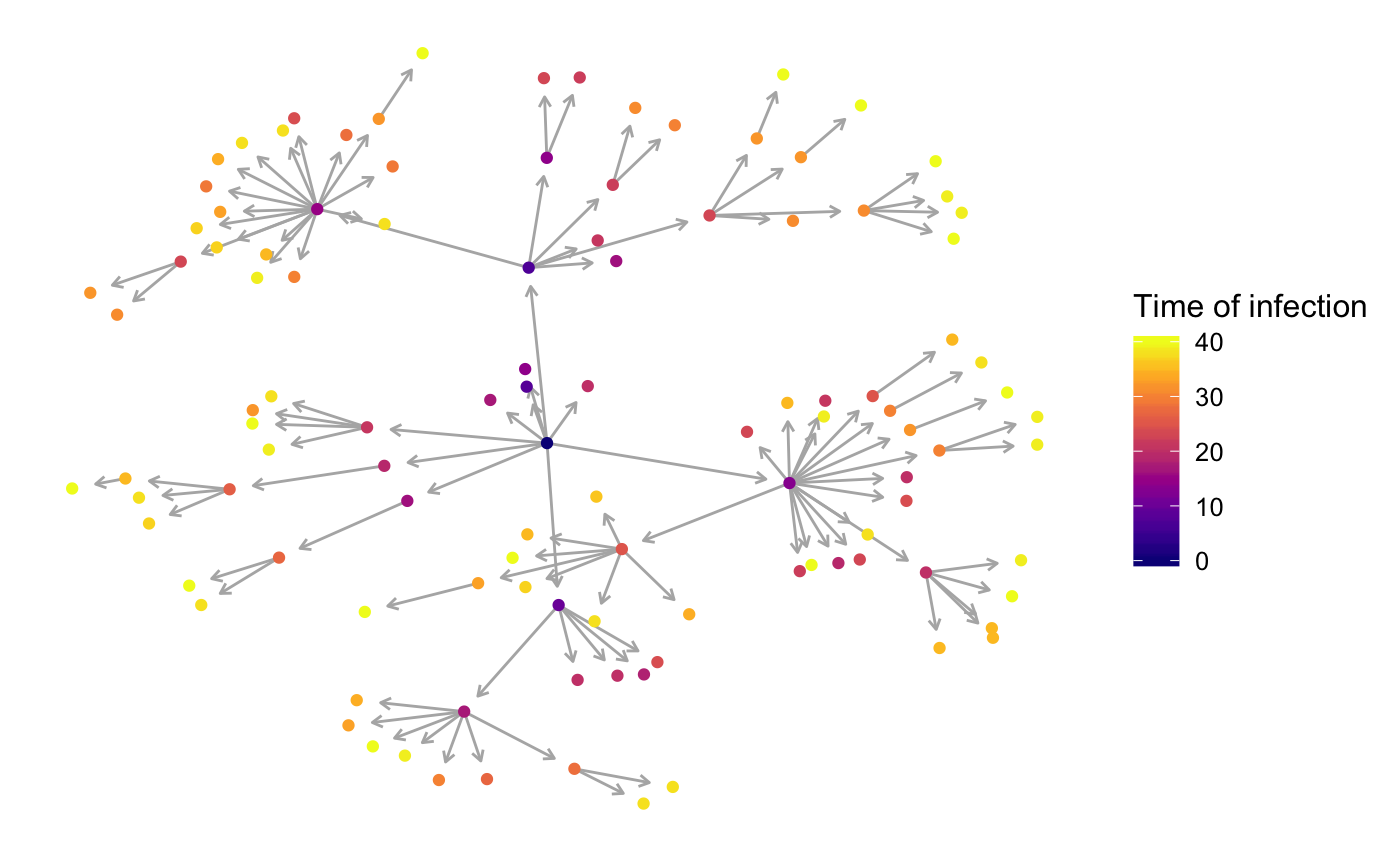
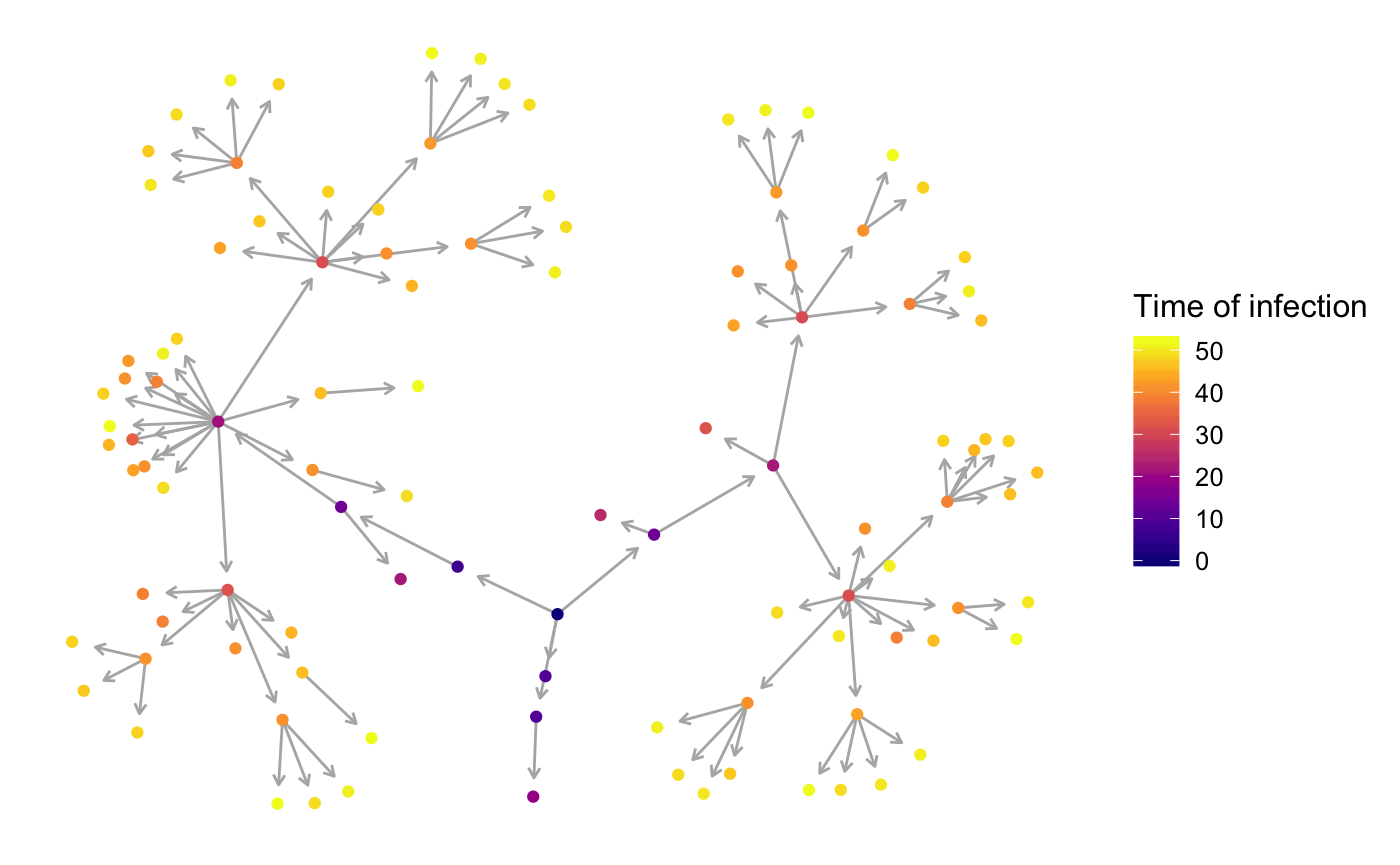
update vignette

diff --git a/docs/articles/single-host-none.html b/docs/articles/single-host-none.html
@@ -183,10 +183,6 @@ param.pExit=<span class="kw"><a href="https://www.rdocumentation.org/packages/ba
 <p>Once nosoiSim is set up, you can run the simulation (here the “seed” ensure that you will get the same results as this tutorial).</p>
 <div class="sourceCode"><pre class="sourceCode r"><code class="sourceCode r"><span class="kw"><a href="https://www.rdocumentation.org/packages/base/topics/library">library</a></span>(nosoi)
 <span class="co">#&gt; Loading required package: data.table</span>
-<span class="co">#&gt; Warning: replacing previous import 'igraph::decompose' by</span>
-<span class="co">#&gt; 'stats::decompose' when loading 'nosoi'</span>
-<span class="co">#&gt; Warning: replacing previous import 'igraph::spectrum' by 'stats::spectrum'</span>
-<span class="co">#&gt; when loading 'nosoi'</span>
 <span class="co">#timeContact</span>
 time_contact_fct =<span class="st"> </span><span class="cf">function</span>(x){<span class="kw"><a href="https://www.rdocumentation.org/packages/base/topics/MathFun">abs</a></span>(<span class="kw"><a href="https://www.rdocumentation.org/packages/base/topics/Round">round</a></span>(<span class="kw"><a href="https://www.rdocumentation.org/packages/stats/topics/Normal">rnorm</a></span>(x, <span class="fl">0.5</span>, <span class="dv">1</span>), <span class="dv">0</span>))}
 
@@ -205,7 +201,7 @@ p_Exit_fct  &lt;-<span class="st"> </span><span class="cf">function</span>(x){<s
 
 <span class="kw"><a href="https://www.rdocumentation.org/packages/base/topics/Random">set.seed</a></span>(<span class="dv">805</span>)
 SimulationA &lt;-<span class="st"> </span><span class="kw"><a href="../reference/nosoiSim.html">nosoiSim</a></span>(<span class="dt">type=</span><span class="st">"single"</span>, <span class="dt">structure=</span><span class="ot">FALSE</span>,
-                        <span class="dt">length.sim=</span><span class="dv">50</span>, <span class="dt">max.infected=</span><span class="dv">100</span>, <span class="dt">init.individuals=</span><span class="dv">1</span>, 
+                        <span class="dt">length.sim=</span><span class="dv">100</span>, <span class="dt">max.infected=</span><span class="dv">100</span>, <span class="dt">init.individuals=</span><span class="dv">1</span>, 
                         <span class="dt">timeContact=</span>time_contact_fct, 
                         <span class="dt">pTrans =</span> pTrans_fct,
                         <span class="dt">param.pTrans =</span> <span class="kw"><a href="https://www.rdocumentation.org/packages/base/topics/list">list</a></span>(<span class="dt">p_max=</span>p_max_fct,<span class="dt">t_incub=</span>t_incub_fct),
@@ -216,8 +212,118 @@ SimulationA &lt;-<span class="st"> </span><span class="kw"><a href="../reference
 <span class="co">#&gt; Starting the simulation</span>
 <span class="co">#&gt; Initializing ... running ...</span>
 <span class="co">#&gt;  done.</span>
-<span class="co">#&gt; The simulation has run for 40 units of time and a total of 111 hosts have been infected.</span></code></pre></div>
-<p>The simulation can stop before 100% of the progress bar is reached if the maximum number of infected hosts is met. Once the simulation is finished, it reports the number of time units for which the simulation has run (40), and the maximum number of infected hosts (111). Note that the simulation has stopped here before reaching <code>length.sim</code> as it has crossed the <code>max.infected</code> threshold set at 100.</p>
+<span class="co">#&gt; The simulation has run for 52 units of time and a total of 107 hosts have been infected.</span>
+
+<span class="kw"><a href="https://www.rdocumentation.org/packages/base/topics/as.data.frame">as.data.frame</a></span>(SimulationA)
+<span class="co">#&gt;     hosts.ID inf.by inf.time out.time active     p_max  t_incub</span>
+<span class="co">#&gt; 1        H-1   NA-1        0       15      0 0.6820110 5.867392</span>
+<span class="co">#&gt; 2       H-10    H-6       22       28      0 0.8280310 7.404940</span>
+<span class="co">#&gt; 3      H-100   H-31       52       NA      1 0.7137238 4.704842</span>
+<span class="co">#&gt; 4      H-101   H-35       52       NA      1 0.6802556 6.983838</span>
+<span class="co">#&gt; 5      H-102   H-39       52       NA      1 0.8902839 7.147764</span>
+<span class="co">#&gt; 6      H-103   H-40       52       NA      1 0.7908749 6.953566</span>
+<span class="co">#&gt; 7      H-104   H-44       52       NA      1 0.3586648 5.348197</span>
+<span class="co">#&gt; 8      H-105   H-51       52       NA      1 0.8248545 7.752634</span>
+<span class="co">#&gt; 9      H-106   H-55       52       NA      1 0.7898260 7.198435</span>
+<span class="co">#&gt; 10     H-107    H-8       52       NA      1 0.8419258 8.248329</span>
+<span class="co">#&gt; 11      H-11    H-5       25       32      0 0.8145372 8.570363</span>
+<span class="co">#&gt; 12      H-12    H-8       31       49      0 0.6826684 6.988244</span>
+<span class="co">#&gt; 13      H-13    H-9       31       45      0 0.8125483 5.612282</span>
+<span class="co">#&gt; 14      H-14    H-9       31       NA      1 0.4300821 7.653334</span>
+<span class="co">#&gt; 15      H-15    H-8       32       47      0 0.7928069 6.824843</span>
+<span class="co">#&gt; 16      H-16    H-9       32       39      0 0.9107720 5.608627</span>
+<span class="co">#&gt; 17      H-17    H-8       34       37      0 0.9516142 7.019421</span>
+<span class="co">#&gt; 18      H-18   H-12       39       NA      1 0.7284649 7.484439</span>
+<span class="co">#&gt; 19      H-19   H-13       39       NA      1 0.7528397 6.920769</span>
+<span class="co">#&gt; 20       H-2    H-1        7       15      0 0.6773838 6.626385</span>
+<span class="co">#&gt; 21      H-20   H-14       39       49      0 0.7430748 5.256753</span>
+<span class="co">#&gt; 22      H-21   H-14       39       40      0 0.6067350 6.440196</span>
+<span class="co">#&gt; 23      H-22   H-15       39       44      0 0.8082829 6.495874</span>
+<span class="co">#&gt; 24      H-23   H-15       39       47      0 0.3424426 7.323467</span>
+<span class="co">#&gt; 25      H-24    H-8       39       46      0 0.3537340 7.008503</span>
+<span class="co">#&gt; 26      H-25   H-12       41       NA      1 0.5241408 7.921641</span>
+<span class="co">#&gt; 27      H-26   H-12       41       43      0 0.4662323 7.482333</span>
+<span class="co">#&gt; 28      H-27   H-13       41       44      0 0.7013940 4.645816</span>
+<span class="co">#&gt; 29      H-28   H-13       41       NA      1 0.4499078 6.758067</span>
+<span class="co">#&gt; 30      H-29   H-13       41       42      0 0.7672077 5.799356</span>
+<span class="co">#&gt; 31       H-3    H-1       10       17      0 0.5762399 7.074281</span>
+<span class="co">#&gt; 32      H-30   H-14       41       NA      1 0.8317716 5.260864</span>
+<span class="co">#&gt; 33      H-31   H-14       41       NA      1 0.3084969 5.848691</span>
+<span class="co">#&gt; 34      H-32   H-14       41       46      0 0.3675913 8.456417</span>
+<span class="co">#&gt; 35      H-33   H-15       41       49      0 0.6978450 5.828977</span>
+<span class="co">#&gt; 36      H-34   H-15       41       47      0 0.6709791 7.084399</span>
+<span class="co">#&gt; 37      H-35   H-15       41       NA      1 0.7248008 7.723246</span>
+<span class="co">#&gt; 38      H-36    H-8       41       42      0 0.5688286 7.709232</span>
+<span class="co">#&gt; 39      H-37    H-8       41       50      0 0.8532331 7.129600</span>
+<span class="co">#&gt; 40      H-38    H-8       41       42      0 0.5842901 6.728813</span>
+<span class="co">#&gt; 41      H-39   H-12       42       NA      1 0.9237394 6.215117</span>
+<span class="co">#&gt; 42       H-4    H-1       10       20      0 0.7453480 5.634375</span>
+<span class="co">#&gt; 43      H-40   H-13       42       NA      1 0.7485208 7.303432</span>
+<span class="co">#&gt; 44      H-41    H-8       42       43      0 0.5933796 6.984878</span>
+<span class="co">#&gt; 45      H-42   H-12       43       46      0 0.7812005 6.250273</span>
+<span class="co">#&gt; 46      H-43   H-13       43       45      0 0.4182937 8.933527</span>
+<span class="co">#&gt; 47      H-44   H-14       43       NA      1 0.8782398 5.299384</span>
+<span class="co">#&gt; 48      H-45    H-8       43       49      0 0.4728412 6.493092</span>
+<span class="co">#&gt; 49      H-46   H-12       45       46      0 0.6227421 6.440160</span>
+<span class="co">#&gt; 50      H-47   H-15       45       48      0 0.9080895 7.325931</span>
+<span class="co">#&gt; 51      H-48   H-20       45       48      0 0.5220788 8.160523</span>
+<span class="co">#&gt; 52      H-49    H-8       45       49      0 0.6406490 7.189641</span>
+<span class="co">#&gt; 53       H-5    H-1       14       28      0 0.9132615 7.138149</span>
+<span class="co">#&gt; 54      H-50   H-14       46       NA      1 0.8302405 8.601445</span>
+<span class="co">#&gt; 55      H-51   H-15       46       NA      1 0.8528528 5.787885</span>
+<span class="co">#&gt; 56      H-52   H-19       46       NA      1 0.4033159 7.001509</span>
+<span class="co">#&gt; 57      H-53   H-20       46       49      0 0.8815117 8.455181</span>
+<span class="co">#&gt; 58      H-54   H-20       46       48      0 0.7444442 6.503174</span>
+<span class="co">#&gt; 59      H-55    H-8       46       NA      1 0.7000994 5.996000</span>
+<span class="co">#&gt; 60      H-56   H-12       47       50      0 0.7574313 6.674331</span>
+<span class="co">#&gt; 61      H-57   H-18       47       NA      1 0.7442536 6.471431</span>
+<span class="co">#&gt; 62      H-58   H-20       47       NA      1 0.7307497 6.360442</span>
+<span class="co">#&gt; 63      H-59   H-30       47       NA      1 0.6971650 7.494408</span>
+<span class="co">#&gt; 64       H-6    H-2       14       23      0 0.7560063 6.117422</span>
+<span class="co">#&gt; 65      H-60   H-33       47       NA      1 0.7876475 7.419829</span>
+<span class="co">#&gt; 66      H-61   H-12       48       NA      1 0.7115658 7.073748</span>
+<span class="co">#&gt; 67      H-62   H-12       48       NA      1 0.5099568 6.735575</span>
+<span class="co">#&gt; 68      H-63   H-18       48       52      0 0.8107485 7.524326</span>
+<span class="co">#&gt; 69      H-64   H-19       48       NA      1 0.8674594 6.384764</span>
+<span class="co">#&gt; 70      H-65   H-20       48       NA      1 0.6632275 8.507966</span>
+<span class="co">#&gt; 71      H-66   H-20       48       NA      1 0.9603046 6.476579</span>
+<span class="co">#&gt; 72      H-67   H-28       48       52      0 0.8277923 8.040442</span>
+<span class="co">#&gt; 73      H-68   H-33       48       NA      1 0.8010801 7.209942</span>
+<span class="co">#&gt; 74      H-69   H-33       48       NA      1 0.6953814 6.291387</span>
+<span class="co">#&gt; 75       H-7    H-4       19       22      0 0.4623409 5.817440</span>
+<span class="co">#&gt; 76      H-70    H-8       48       NA      1 0.6524729 7.791940</span>
+<span class="co">#&gt; 77      H-71    H-8       48       52      0 0.7024732 5.671932</span>
+<span class="co">#&gt; 78      H-72   H-14       49       NA      1 0.9152841 6.454106</span>
+<span class="co">#&gt; 79      H-73   H-18       49       NA      1 0.9774132 8.589844</span>
+<span class="co">#&gt; 80      H-74   H-25       49       NA      1 0.7616463 6.227385</span>
+<span class="co">#&gt; 81      H-75   H-30       49       50      0 0.6154093 8.067825</span>
+<span class="co">#&gt; 82      H-76   H-35       49       NA      1 0.6980301 6.522385</span>
+<span class="co">#&gt; 83      H-77   H-37       49       NA      1 0.8459345 7.261328</span>
+<span class="co">#&gt; 84      H-78   H-39       49       NA      1 0.6042059 7.525309</span>
+<span class="co">#&gt; 85      H-79   H-44       49       NA      1 0.4178192 8.095751</span>
+<span class="co">#&gt; 86       H-8    H-6       21       NA      1 0.7828185 6.926328</span>
+<span class="co">#&gt; 87      H-80    H-8       49       NA      1 0.8174004 7.203072</span>
+<span class="co">#&gt; 88      H-81   H-14       50       52      0 0.7834866 7.275748</span>
+<span class="co">#&gt; 89      H-82   H-18       50       NA      1 0.6388115 6.912072</span>
+<span class="co">#&gt; 90      H-83   H-25       50       NA      1 0.5015493 7.734041</span>
+<span class="co">#&gt; 91      H-84   H-30       50       NA      1 0.5098326 7.021084</span>
+<span class="co">#&gt; 92      H-85   H-31       50       NA      1 0.5915437 8.437593</span>
+<span class="co">#&gt; 93      H-86   H-39       50       51      0 0.6142708 7.454909</span>
+<span class="co">#&gt; 94      H-87   H-40       50       NA      1 0.9092976 6.250582</span>
+<span class="co">#&gt; 95      H-88   H-44       50       NA      1 0.6736362 5.617803</span>
+<span class="co">#&gt; 96      H-89   H-14       51       NA      1 0.6689268 6.589764</span>
+<span class="co">#&gt; 97       H-9    H-5       22       39      0 0.8278674 6.414565</span>
+<span class="co">#&gt; 98      H-90   H-18       51       NA      1 0.6226700 6.540524</span>
+<span class="co">#&gt; 99      H-91   H-19       51       NA      1 0.7177536 6.281066</span>
+<span class="co">#&gt; 100     H-92   H-25       51       NA      1 0.4973862 7.957429</span>
+<span class="co">#&gt; 101     H-93   H-30       51       NA      1 0.8995523 6.368612</span>
+<span class="co">#&gt; 102     H-94   H-35       51       NA      1 0.8409255 6.191554</span>
+<span class="co">#&gt; 103     H-95   H-39       51       52      0 0.5626469 5.139099</span>
+<span class="co">#&gt; 104     H-96   H-40       51       NA      1 0.6338660 7.781122</span>
+<span class="co">#&gt; 105     H-97   H-44       51       NA      1 0.7102687 6.199274</span>
+<span class="co">#&gt; 106     H-98    H-8       51       52      0 0.2595104 6.687203</span>
+<span class="co">#&gt; 107     H-99   H-28       52       NA      1 0.6163492 8.211672</span></code></pre></div>
+<p>The simulation can stop before 100% of the progress bar is reached if the maximum number of infected hosts is met. Once the simulation is finished, it reports the number of time units for which the simulation has run (52), and the maximum number of infected hosts (107). Note that the simulation has stopped here before reaching <code>length.sim</code> as it has crossed the <code>max.infected</code> threshold set at 100.</p>
 </div>
 <div id="nosoi-output" class="section level2">
 <h2 class="hasAnchor">
@@ -225,12 +331,12 @@ SimulationA &lt;-<span class="st"> </span><span class="kw"><a href="../reference
 <p>Nosoi gives as an ouput a <code>data.table</code> (a more efficient version of a <code>data.frame</code>) with the following structure:</p>
 <div class="sourceCode"><pre class="sourceCode r"><code class="sourceCode r"><span class="kw"><a href="https://www.rdocumentation.org/packages/utils/topics/head">head</a></span>(SimulationA)
 <span class="co">#&gt;    hosts.ID inf.by inf.time out.time active     p_max  t_incub</span>
-<span class="co">#&gt; 1:      H-1   NA-1        0       23      0 0.6820110 5.867392</span>
-<span class="co">#&gt; 2:     H-10    H-2       16       19      0 0.8026548 6.414165</span>
-<span class="co">#&gt; 3:    H-100   H-21       40       NA      1 0.6622235 7.816477</span>
-<span class="co">#&gt; 4:    H-101   H-35       40       NA      1 0.6288499 7.395426</span>
-<span class="co">#&gt; 5:    H-102   H-39       40       NA      1 0.7714096 6.556226</span>
-<span class="co">#&gt; 6:    H-103    H-5       40       NA      1 0.8403010 6.555480</span></code></pre></div>
+<span class="co">#&gt; 1:      H-1   NA-1        0       15      0 0.6820110 5.867392</span>
+<span class="co">#&gt; 2:     H-10    H-6       22       28      0 0.8280310 7.404940</span>
+<span class="co">#&gt; 3:    H-100   H-31       52       NA      1 0.7137238 4.704842</span>
+<span class="co">#&gt; 4:    H-101   H-35       52       NA      1 0.6802556 6.983838</span>
+<span class="co">#&gt; 5:    H-102   H-39       52       NA      1 0.8902839 7.147764</span>
+<span class="co">#&gt; 6:    H-103   H-40       52       NA      1 0.7908749 6.953566</span></code></pre></div>
 <p>Each individual host that has or is infected during the course of the simulation is a line in the data.table. <code>hosts.ID</code> is the unique identifier of the host, while <code>inf.by</code> indicate which host infected it. As you can see, host <code>H-1</code> has been infected by <code>NA</code>; <code>H-1</code> is the individual that started the transmission chain. <code>inf.time</code> is the time (in simulation units of time) when the host has been infected, and <code>out.time</code> is the time (in simulation units of time) when it left the simulation. Here in the top 6 lines, no host has left the simulation (it ran only for 13 units of time). <code>active</code> indicates if the host is still active in the simulation. <code>p_max</code> and <code>t_incub</code> are the individually sampled parameter for <code>pTrans</code>.</p>
 <div id="visualisation" class="section level3">
 <h3 class="hasAnchor">
